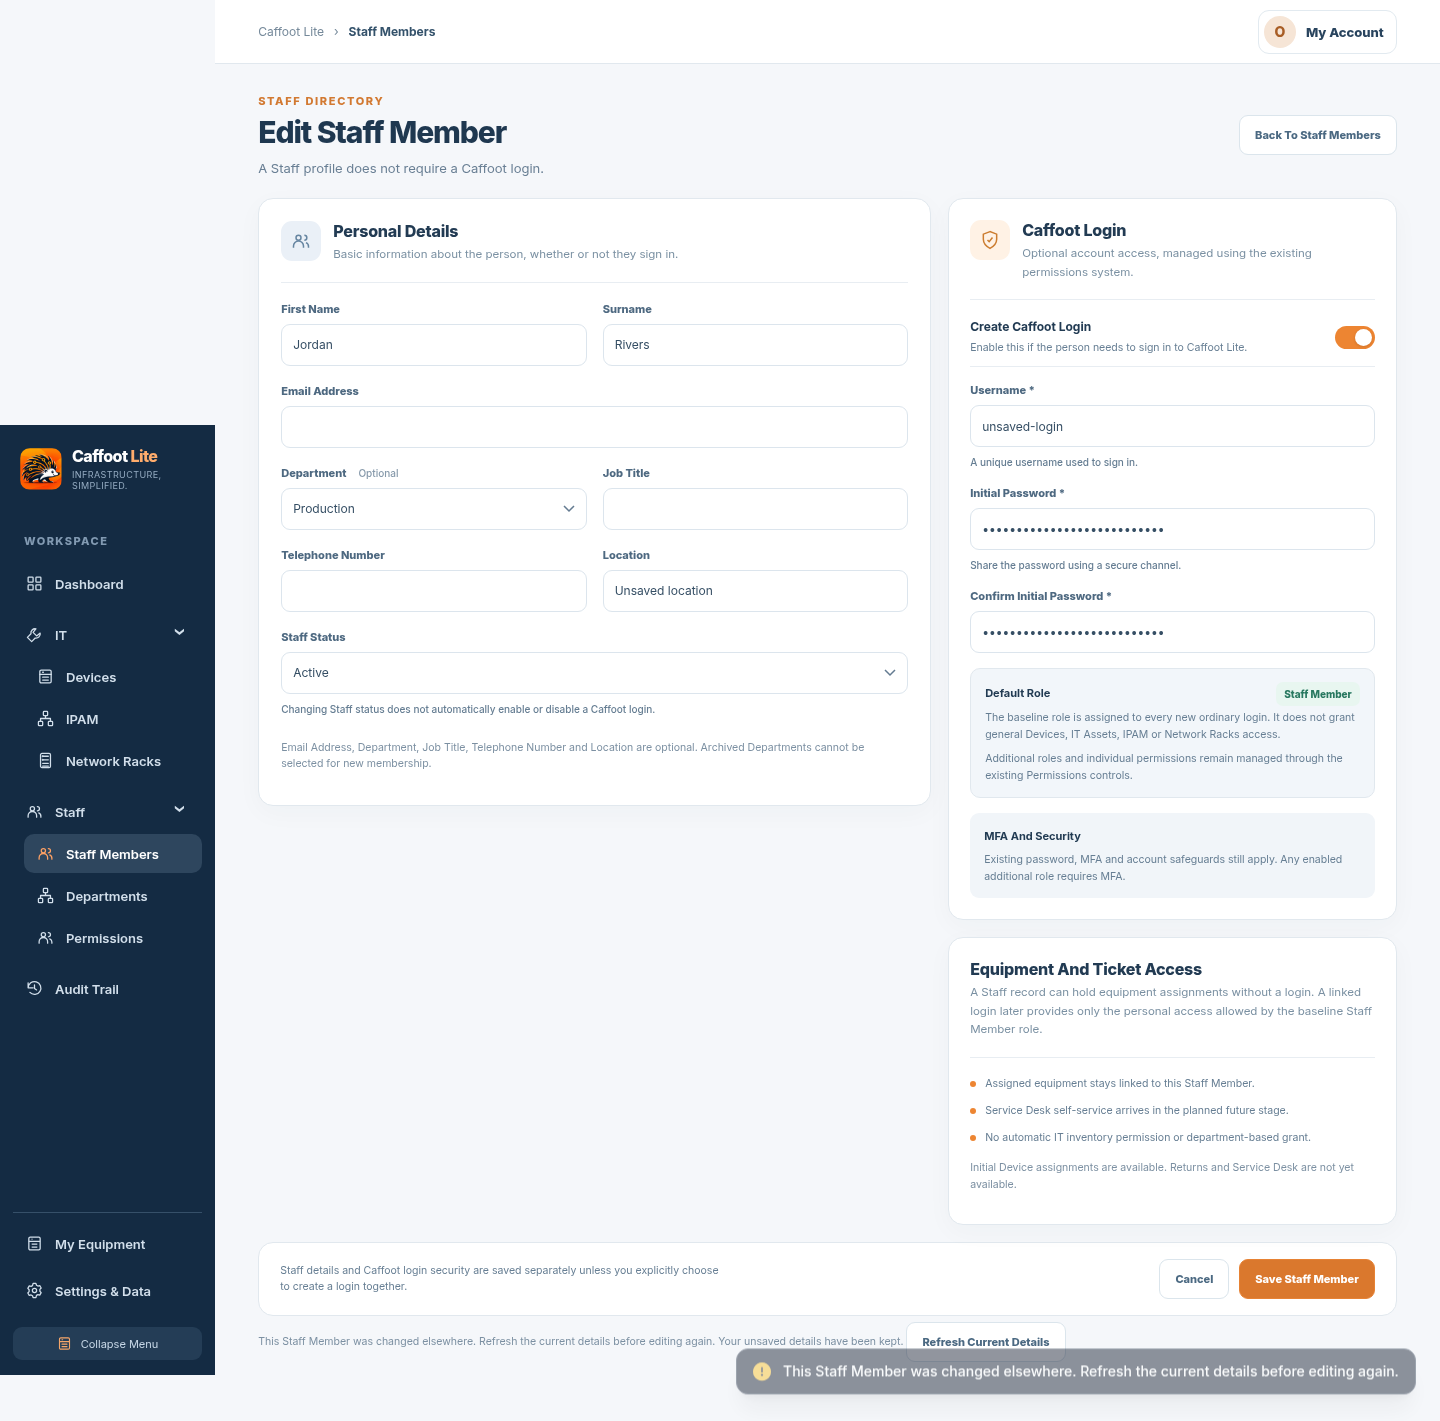
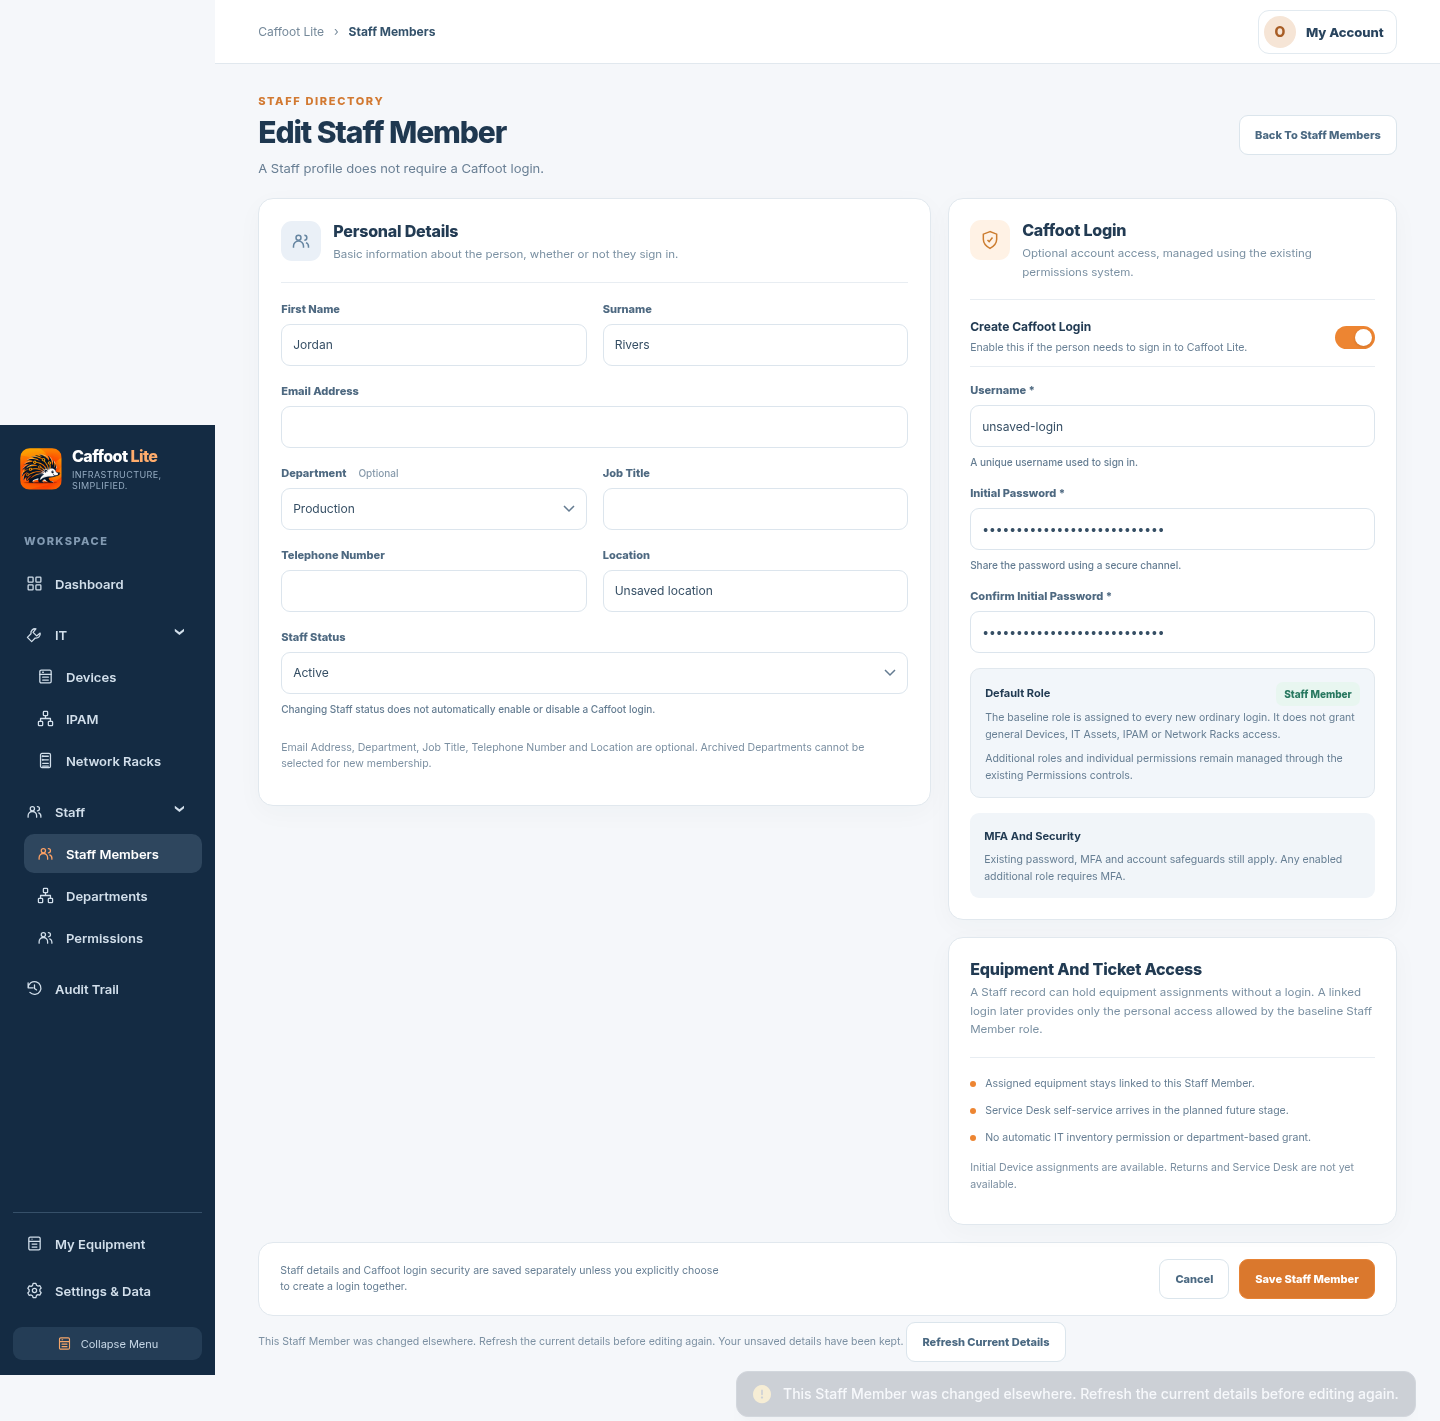
test: verify Staff refresh and dependent browser flows

Changed region(s): [[0.5, 0.9289, 1.0, 1.0]]

diff --git a/interface/staff-directory.js b/interface/staff-directory.js
@@ -244,11 +244,12 @@ function renderDepartments() {
     if(form&&!confirm('Refresh this Staff Member? This will replace your unsaved details, including any login fields, with the current saved values.'))return;
     const [result,choices]=await Promise.all([
       request('/api/staff-members/'+encodeURIComponent(id)),
-      request('/api/staff-members/department-choices')
+      canReadDepartments()?readAll('/api/departments','departments').then(departments=>({departments})):request('/api/staff-members/department-choices')
     ]);
     if(currentStaffId!==id||(form&&!form.isConnected))return;
     staff=staff.map(record=>record.id===id?result.staffMember:record);
     departments=choices.departments;
+    if(canReadDepartments())managedDepartments=departments;
     createLoginIntent=false;
     form?.remove();
     redraw();

diff --git a/docs/development-handovers/evidence/stale-staff-edits/Report.md b/docs/development-handovers/evidence/stale-staff-edits/Report.md
@@ -18,6 +18,11 @@ remains defined by [#232](https://github.com/Caffoot/Caffoot-Lite/issues/232) an
   successful refresh/save. Both Reactivate and Mark Inactive reject stale revisions
   and succeed after refreshing. Existing creation, optional login, navigation and
   read-only Staff privacy checks also pass.
+- `CAFFOOT_CHROMIUM_PATH=/usr/bin/chromium node tests/department-details-interface.cjs`:
+  **passed**, 28 actual application captures and no browser script errors.
+- `CAFFOOT_CHROMIUM_PATH=/usr/bin/chromium node tests/device-assignments-interface.cjs`:
+  **passed**, including Staff status placement/confirmation/reactivation, unchanged
+  assignments/login, restricted personal/shared equipment and light/dark mobile views.
 - Python compilation, changed JavaScript syntax and `git diff --check`: **passed**.
 - Function Index regenerated for the three affected runtime files; declaration
   locations and definition count reviewed.
@@ -41,8 +46,11 @@ conflict. Captures were inspected in light desktop and dark mobile presentation.
 
 ## Remaining Verification
 
-The two directly affected Department and Device assignment browser fixtures now
-submit the Staff revision; their compatibility runs remain pending at this checkpoint.
+The directly affected Department and Device assignment browser fixtures submit
+the Staff revision. Final Staff browser verification also checks that theme changes
+keep the original revision and that refreshing retains unused archived Departments
+for authorised Department readers.
+
 Full backend, multi-browser and Docker workflows are deferred while the PR is draft,
 as required by `AGENTS.md`. Native/manual acceptance and independent code/visual
 review remain outstanding. No merge, deployment, release or Stage 1–3 sign-off is claimed.

diff --git a/docs/development-guide/Function-Index.md b/docs/development-guide/Function-Index.md
@@ -613,11 +613,11 @@ The account hydration/photo functions now have purpose-based callable bindings m
 | [`redraw`](../../interface/staff-directory.js#L233) | 233 |
 | [`showStaffConflict`](../../interface/staff-directory.js#L234) | 234 |
 | [`refreshStaffRecord`](../../interface/staff-directory.js#L242) | 242 |
-| [`saveStaff`](../../interface/staff-directory.js#L257) | 257 |
-| [`openDepartmentDialog`](../../interface/staff-directory.js#L276) | 276 |
-| [`closeDepartmentDialog`](../../interface/staff-directory.js#L287) | 287 |
-| [`saveDepartment`](../../interface/staff-directory.js#L288) | 288 |
-| [`configure`](../../interface/staff-directory.js#L295) | 295 |
+| [`saveStaff`](../../interface/staff-directory.js#L258) | 258 |
+| [`openDepartmentDialog`](../../interface/staff-directory.js#L277) | 277 |
+| [`closeDepartmentDialog`](../../interface/staff-directory.js#L288) | 288 |
+| [`saveDepartment`](../../interface/staff-directory.js#L289) | 289 |
+| [`configure`](../../interface/staff-directory.js#L296) | 296 |
 
 ## interface/equipment.js
 

diff --git a/docs/development-handovers/milestone-01.md b/docs/development-handovers/milestone-01.md
@@ -15,6 +15,10 @@ The real HTTPS/SQLite Chromium Staff flow passed, including stale form and both
 quick status conflicts, preserved login entries, theme redraws, cancelled/failed
 refresh, successful refreshed saves and unchanged card/action positions.
 See [captures and remaining review](evidence/stale-staff-edits/Report.md).
+Department Details and Device assignment Chromium flows also passed. Final Staff
+verification covers the full permitted Department list after refresh, including
+unused archived Departments. Full backend, multi-browser and Docker workflows
+remain deferred for the draft PR; independent and native/manual review is outstanding.
 This correction does not sign off Stages 1–3 or authorise merge, deployment or release.
 
 **Administrator audit-history correction — 17 November 2026:** Finding 2 is
